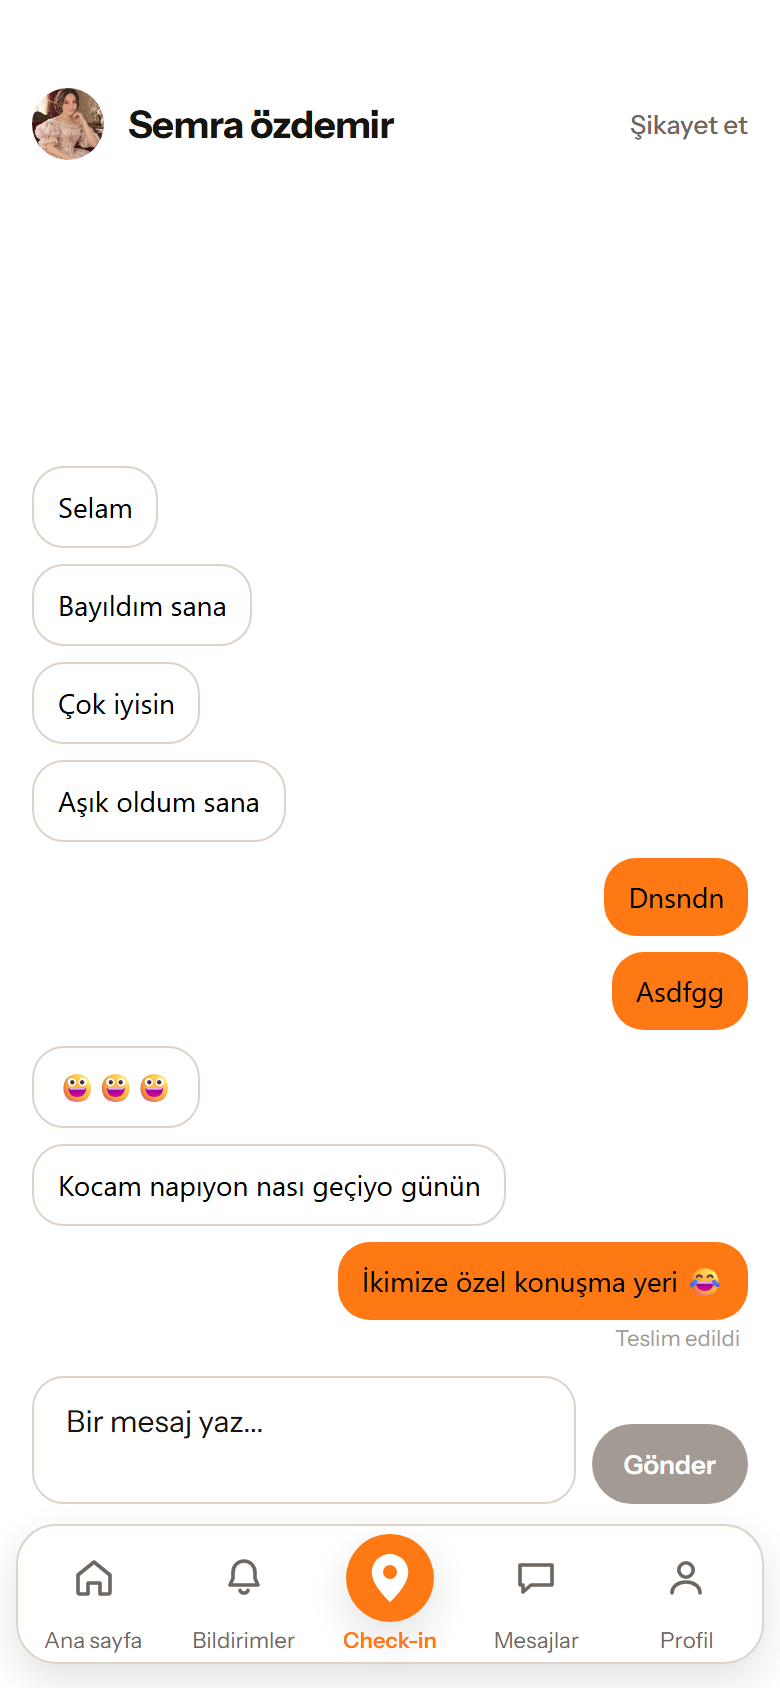
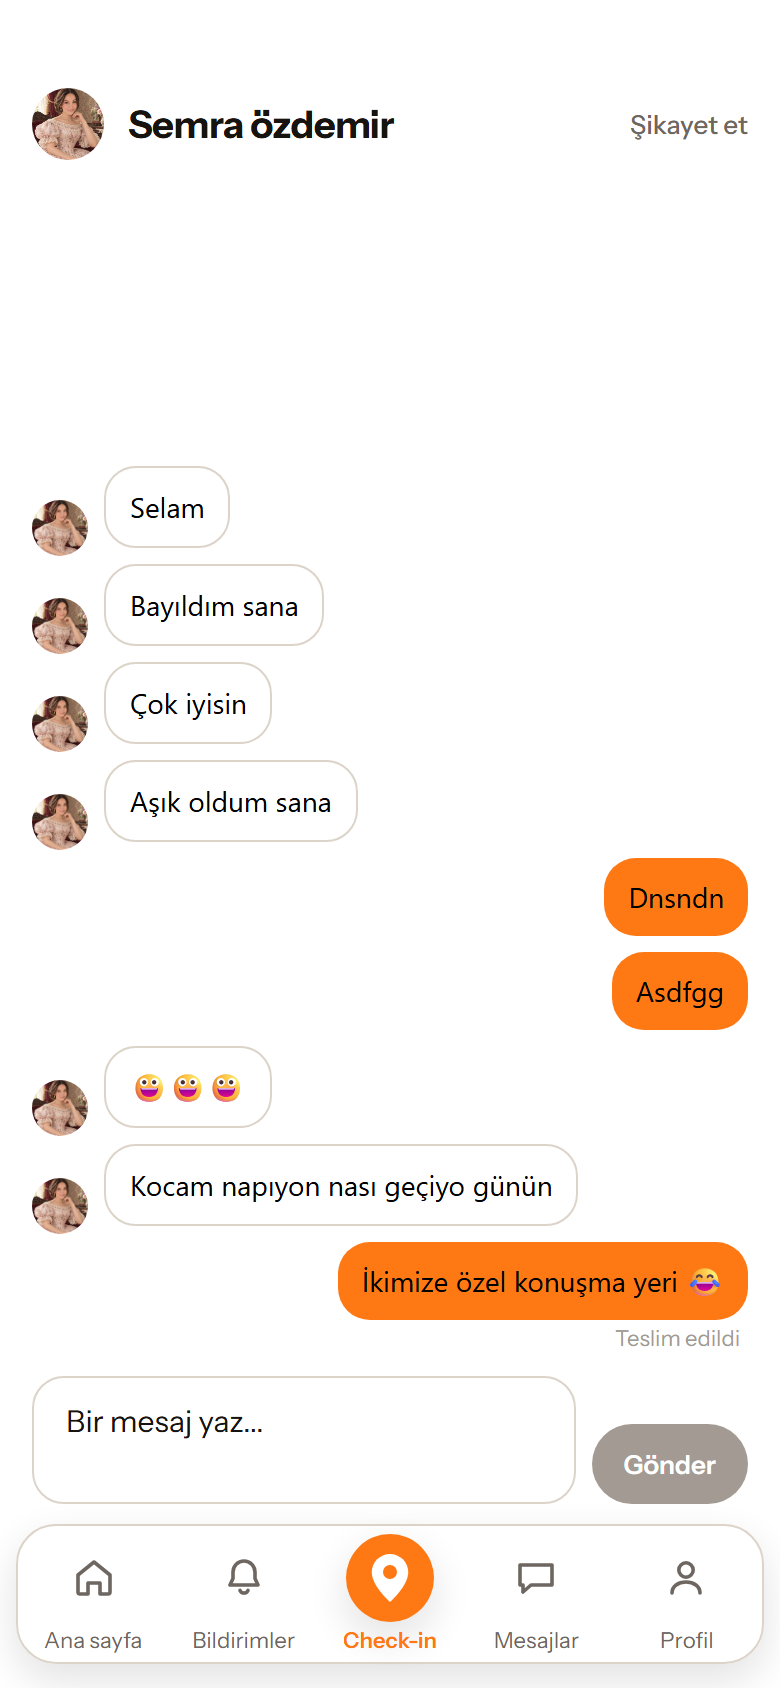
feat(sohbet): karsi tarafin her balonunun yaninda profil resmi
Claude-Session: https://claude.ai/code/session_01DHACM4jTWNtJEfg7qoH6yF

Changed region(s): [[0.0308, 0.2773, 0.4308, 0.5237], [0.0308, 0.6161, 0.7077, 0.7393]]

diff --git a/mobil/src/app/sohbet/[kullaniciId].tsx b/mobil/src/app/sohbet/[kullaniciId].tsx
@@ -317,18 +317,32 @@ export default function SohbetEkrani() {
           // Kendi mesajini sikayet etmek sunucuda zaten reddediliyor
           // (Kendi mesajini sikayet edemezsin); arayuz de o yola hic
           // sokmuyor.
+          // Karsi tarafin HER balonunun solunda kucuk avatar (kullanicinin
+          // istegi 2026-09-14: "her yazdigi mesaj satirinin yaninda").
+          // Balonun altina hizali; kendi balonumda yok.
           return (
             <View>
-              <Pressable
-                onLongPress={
-                  benimMi
-                    ? undefined
-                    : () => router.push(`/sikayet?hedefTur=mesaj&hedefId=${item.id}`)
-                }
-                style={[stiller.mesajBalonu, benimMi ? stiller.kendiBalonu : stiller.karsiBalonu]}
-              >
-                <Text testID="mesaj-metni">{item.metin}</Text>
-              </Pressable>
+              <View style={benimMi ? stiller.kendiSatiri : stiller.karsiSatiri}>
+                {!benimMi && (
+                  <Avatar
+                    fotografUrl={avatarUrl}
+                    ad={konusmaSatiri?.ad}
+                    kullaniciAdi={konusmaSatiri?.kullaniciAdi ?? ''}
+                    cap={BALON_AVATAR_CAPI}
+                    testID={`balon-avatar-${item.id}`}
+                  />
+                )}
+                <Pressable
+                  onLongPress={
+                    benimMi
+                      ? undefined
+                      : () => router.push(`/sikayet?hedefTur=mesaj&hedefId=${item.id}`)
+                  }
+                  style={[stiller.mesajBalonu, benimMi ? stiller.kendiBalonu : stiller.karsiBalonu]}
+                >
+                  <Text testID="mesaj-metni">{item.metin}</Text>
+                </Pressable>
+              </View>
               {item.id === sonKendiMesajimId && (
                 <Text style={stiller.teslim} testID={`teslim-${item.id}`}>
                   {t('sohbet.teslimEdildi')}
@@ -367,6 +381,8 @@ export default function SohbetEkrani() {
 // Ust bar avatari liste satirlarindan (48) kucuk: baslik satirinin
 // yuksekligini buyutmeden adin yaninda durmali.
 const UST_BAR_AVATAR_CAPI = 36
+// Balon yanindaki avatar: metin satirindan buyuk olmasin.
+const BALON_AVATAR_CAPI = 28
 
 const stilleriYap = (renk: Renk) => StyleSheet.create({
   // Balonun altinda, sag hizali, soluk ve kucuk: bilgi, vurgu degil.
@@ -431,12 +447,15 @@ const stilleriYap = (renk: Renk) => StyleSheet.create({
   },
   liste: { flex: 1 },
 
+  karsiSatiri: { flexDirection: 'row', alignItems: 'flex-end', gap: bosluk.s },
+  kendiSatiri: { alignItems: 'flex-end' },
   mesajBalonu: {
     borderRadius: yuvarlak.kart,
     paddingHorizontal: bosluk.m,
     paddingVertical: bosluk.s + 2,
     marginVertical: bosluk.xs,
     maxWidth: '80%',
+    flexShrink: 1,
   },
   // Kendi mesajin turuncu: konusmada kimin konustugu tek bakista
   // okunmali. Turuncunun burada "eylem" degil "sen" demesi kimligin

diff --git a/mobil/__tests__/ekranlar/sohbet/[kullaniciId].test.tsx b/mobil/__tests__/ekranlar/sohbet/[kullaniciId].test.tsx
@@ -512,4 +512,22 @@ describe('SohbetEkrani - profil resmi ve teslim durumu', () => {
 
     expect(screen.queryByText('Teslim edildi')).toBeNull()
   })
+
+  it('karsi tarafin HER mesajinin yaninda avatari var, kendi mesajimda yok', async () => {
+    ;(avatarlariGetir as jest.Mock).mockResolvedValue({ 'kullanici-2': 'https://x/ada.jpg' })
+    ;(mesajlariGetir as jest.Mock).mockResolvedValue([
+      mesaj({ id: 'm3', gonderenId: 'kullanici-2', metin: 'Karsi 2' }),
+      mesaj({ id: 'm2', gonderenId: 'kullanici-1', metin: 'Benim' }),
+      mesaj({ id: 'm1', gonderenId: 'kullanici-2', metin: 'Karsi 1' }),
+    ])
+
+    await render(<SohbetEkrani />)
+    await screen.findByText('Karsi 2')
+
+    await waitFor(() =>
+      expect(screen.getByTestId('balon-avatar-m3').props.source).toEqual([{ uri: 'https://x/ada.jpg' }])
+    )
+    expect(screen.getByTestId('balon-avatar-m1')).toBeTruthy()
+    expect(screen.queryByTestId('balon-avatar-m2')).toBeNull()
+  })
 })

diff --git a/CLAUDE.md b/CLAUDE.md
@@ -283,6 +283,10 @@ hata: yazma kutusu klavyenin altinda kaliyordu.
 - Avatar bildirimlerle AYNI yol: `Avatar` bileseni + `avatarlariGetir`
   (listeden sonra, ayri; kova okunamazsa bas harf, hata yok). Listede
   48, ust barda 36 px; ust bardaki avatar profile gider.
+- Karsi tarafin HER balonunun solunda 28 px avatar (kullanicinin
+  ikinci istegi, ayni sabah: "her yazdigi mesaj satirinin yaninda").
+  Instagram'in "grubun sonuncusunda" sadelestirmesi bilerek
+  YAPILMADI - kullanici "her" dedi.
 - "Teslim edildi" YALNIZCA en son kendi mesajimin altinda (Instagram
   deseni); iyimser (`yerelMi`) satirda yazilmaz, sunucu satiri gelince
   yazar. "Goruldu" YOK - karsi tarafin son okumasi istemciye acik degil.
